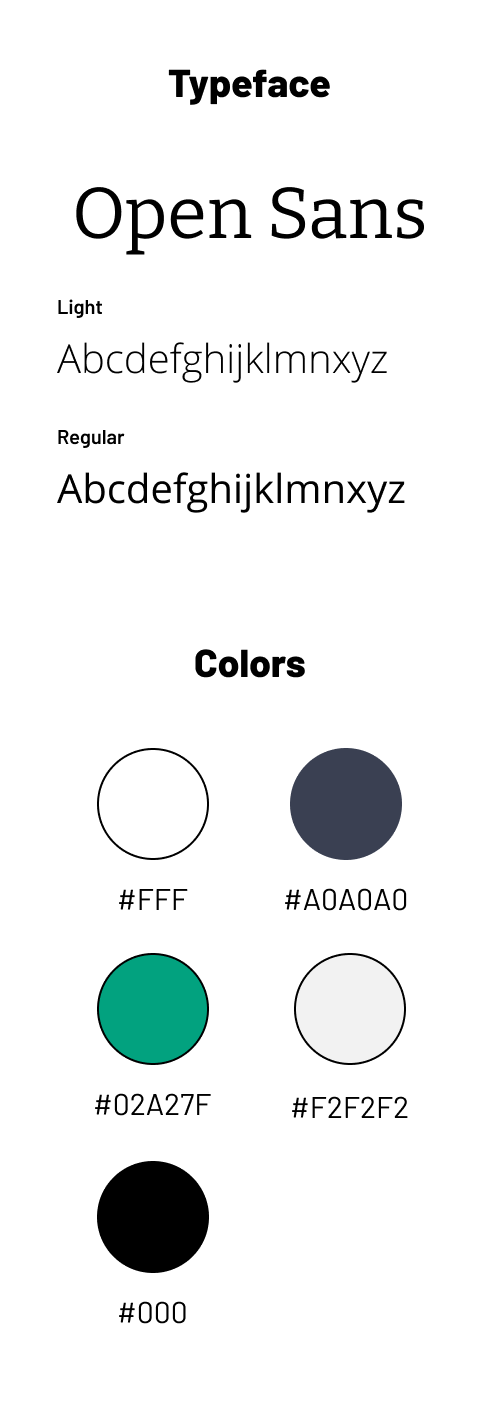
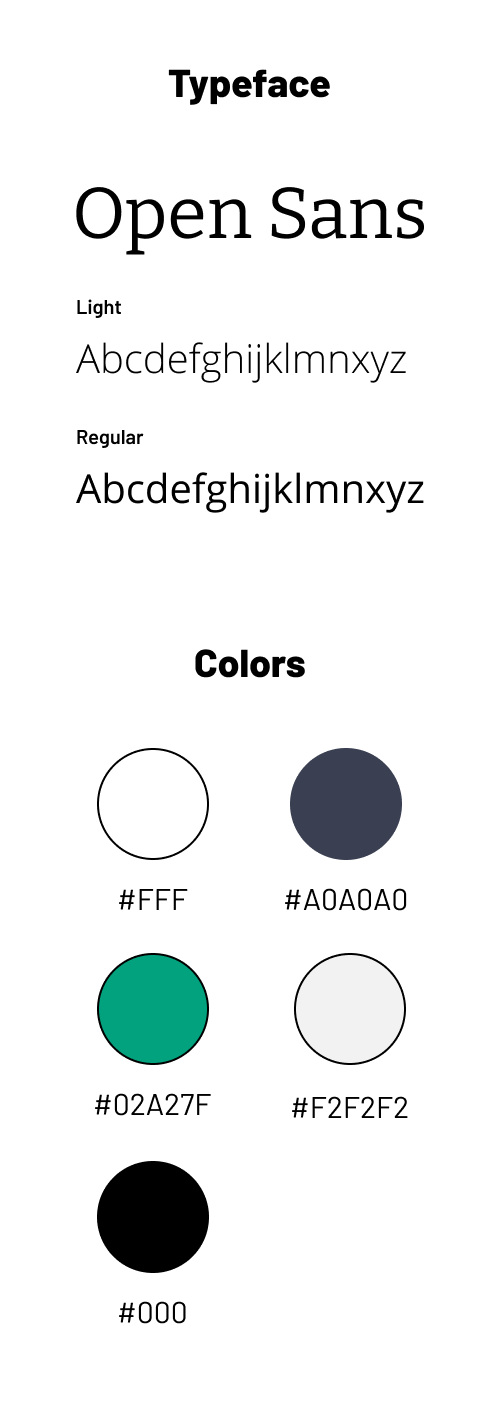
add leaflovers style-guide

Changed region(s): [[0.12, 0.1866, 0.84, 0.3731]]

diff --git a/docs/subpages/leaflovers.html b/docs/subpages/leaflovers.html
@@ -1,63 +1,76 @@
 <!DOCTYPE html>
 <html lang="en">
+
 <head>
-    <meta charset="UTF-8">
-    <meta name="viewport" content="width=device-width, initial-scale=1.0">
-    <meta http-equiv="X-UA-Compatible" content="IE=edge">
-    <script src="https://use.fontawesome.com/de50a042e8.js"></script>
-    <link rel="stylesheet" href="../css/info.min.css">
-    <title>leaflovers – Responsive Product Page</title>
+  <meta charset="UTF-8">
+  <meta name="viewport" content="width=device-width, initial-scale=1.0">
+  <meta http-equiv="X-UA-Compatible" content="IE=edge">
+  <script src="https://use.fontawesome.com/de50a042e8.js"></script>
+  <link rel="stylesheet" href="../css/info.min.css">
+  <title>leaflovers – Responsive Product Page</title>
 </head>
+
 <body>
   <div id="wrapper">
     <div class="project-name">
       <h1 class="project-title">leaflovers</h1>
     </div>
-    
+
     <div class="projects-grid">
       <div class="project-info">
-          <div class="project-desc">
-            <h2 class="info">Project Info</h2>
-            <p>This is a landing page of the fictional brand leaflovers.<br>The site was built with CSS Grid and is fully responsive for all devices.</p>
-            <p>Feel free to check it out!</p>
-            <a href="https://github.com/vanmer/LeafLovers-Landing-Page" class="github">Github Repository</a>
-            <a href="../index.html"class="go-back"><i class="fa fa-chevron-left"></i> Go Back</a>
-          </div>
+        <div class="project-desc">
+          <h2 class="info">Project Info</h2>
+          <p>This is a landing page of the fictional brand leaflovers.<br>The site was built with CSS Grid and is fully
+            responsive for all devices.</p>
+          <p>Feel free to check it out!</p>
+          <a href="https://github.com/vanmer/LeafLovers-Landing-Page" class="github">Github Repository</a>
+          <a href="../index.html" class="go-back"><i class="fa fa-chevron-left"></i> Go Back</a>
+        </div>
       </div>
 
-     <div class="mockup">
-          <div class="mockup-item">
-            <video autoplay loop muted class="video">
-              <source src="../video/leaflovers-macbook-mockup.mp4">
-              <img src="../img/leaflovers-macbook-fallback.png" alt="">
-            </video>
-            <img src="../img/leaflovers-macbook-fallback.png" class ="image fallback-img" alt="">
-          </div>
-          <div class="mockup-item">
-            <video autoplay loop muted class="video">
-              <source src="../video/leaflovers-ipad-mockup.mp4">
-              <img src="../img/leaflovers-ipad-fallback.png" alt="">
-            </video>
-            <img src="../img/leaflovers-ipad-fallback.png" class ="image fallback-img" alt="">
-          </div>
-          <div class="mockup-item">
-            <video autoplay loop  muted class="video">
-              <source src="../video/leaflovers-iphone-mockup.mp4">
-              <img src="../img/leaflovers-iphone-fallback.png" alt="">
-            </video>
-            <img src="../img/leaflovers-iphone-fallback.png" class ="image fallback-img" alt="">
-          </div>
+      <div class="mockup">
+        <div class="mockup-item">
+          <video autoplay loop muted class="video">
+            <source src="../video/leaflovers-macbook-mockup.mp4">
+            <img src="../img/leaflovers-macbook-fallback.png" alt="">
+          </video>
+          <img src="../img/leaflovers-macbook-fallback.png" class="image fallback-img" alt="">
         </div>
+        <div class="mockup-item">
+          <video autoplay loop muted class="video">
+            <source src="../video/leaflovers-ipad-mockup.mp4">
+            <img src="../img/leaflovers-ipad-fallback.png" alt="">
+          </video>
+          <img src="../img/leaflovers-ipad-fallback.png" class="image fallback-img" alt="">
+        </div>
+        <div class="mockup-item">
+          <video autoplay loop muted class="video">
+            <source src="../video/leaflovers-iphone-mockup.mp4">
+            <img src="../img/leaflovers-iphone-fallback.png" alt="">
+          </video>
+          <img src="../img/leaflovers-iphone-fallback.png" class="image fallback-img" alt="">
+        </div>
+      </div>
+
+      <div class="style-guide">
+        <div class="image-desktop">
+          <img src="../img/leaflovers-styleguide-desktop.png" class="image" alt="">
+        </div>
+        <div class="image-mobile">
+          <img src="../img/leaflovers-styleguide-mobile.png" class="image" alt="">
+        </div>
+      </div>
 
       <div class="portfolio-item">
-            <a href="https://dazzling-swirles-92f7ab.netlify.app/">
-              <img src="../img/leaflovers.png" class="image border" alt="leaflovers">
-              <div class="middle">
-                <div class="text">Go to the site</div>
-              </div>
-            </a>
+        <a href="https://dazzling-swirles-92f7ab.netlify.app/">
+          <img src="../img/leaflovers.png" class="image border" alt="leaflovers">
+          <div class="middle">
+            <div class="text">Go to the site</div>
           </div>
+        </a>
+      </div>
     </div>
-</div>
+  </div>
 </body>
+
 </html>
